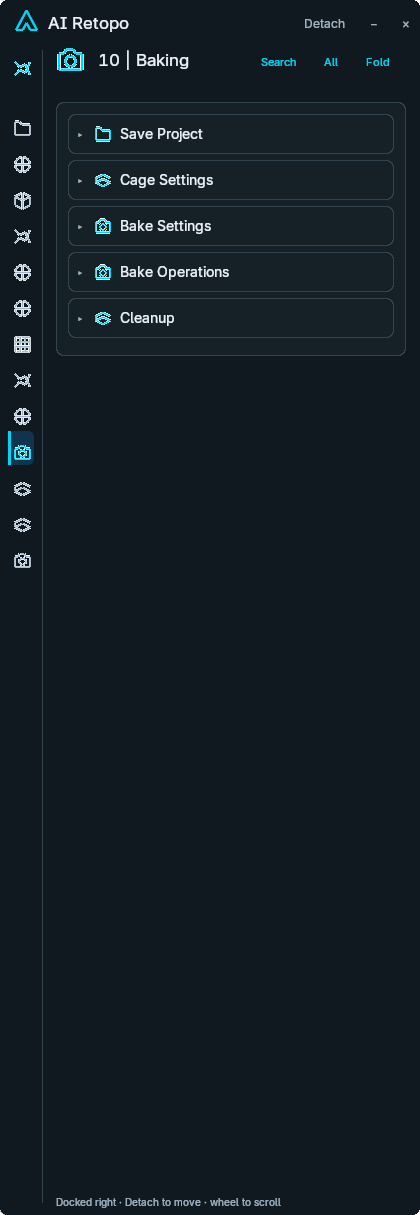
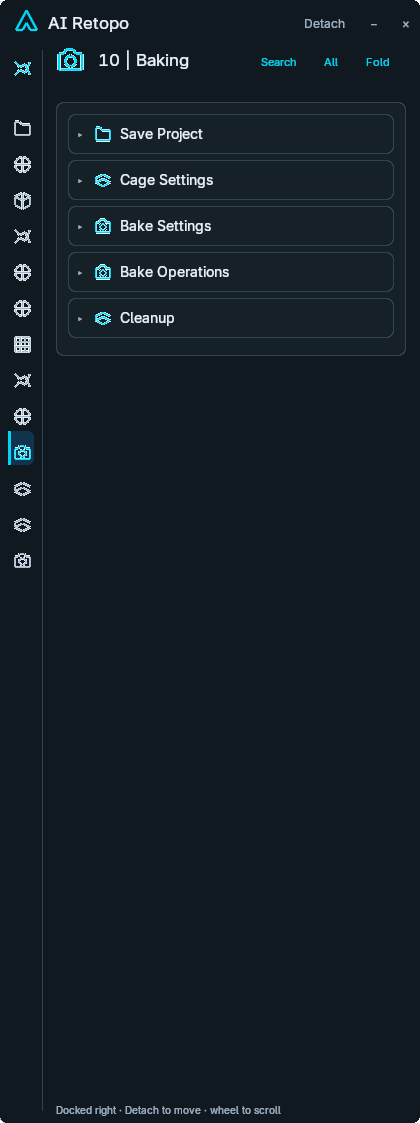
fix: reserve 100 pixels above docked UI Panel

diff --git a/tests/test_custom_ui_docking.py b/tests/test_custom_ui_docking.py
@@ -75,18 +75,18 @@ def tick():
                 assert prefs.ui_mode=='UI_PANEL' and prefs.ui_panel_docked
                 x,top,width,height=s.geometry(r)
                 assert abs(x+width-(r.width-8))<.01
-                assert height==r.height-16
+                assert top==r.height-100 and height==r.height-108
                 assert not any(h[1][0] in {'move','resize'} for h in s.hits)
                 for rw,rh in ((400,300),(1400,900)):
                     x,top,width,height=s.geometry(SimpleNamespace(width=rw,height=rh))
-                    assert abs(x+width-(rw-8))<.01 and top==rh-8
+                    assert abs(x+width-(rw-8))<.01 and top==rh-100
                 bpy.ops.screen.screen_full_area(use_hide_panels=False)
                 state['step']=4
                 return .6
             if step==4:
                 assert prefs.ui_panel_docked and s is state['session']
                 x,top,width,height=s.geometry(r)
-                assert abs(x+width-(r.width-8))<.01
+                assert abs(x+width-(r.width-8))<.01 and top==r.height-100
                 bpy.ops.screen.screen_full_area(use_hide_panels=False)
                 state['step']=5
                 return .6

diff --git a/custom_ui/lifecycle.py b/custom_ui/lifecycle.py
@@ -84,8 +84,11 @@ class Session:
         s = self.scale
         if self.prefs.ui_mode == 'UI_PANEL' and self.prefs.ui_panel_docked:
             width = min(self.prefs.ui_panel_width*s, max(1, region.width-16))
-            h = min(44*s if self.collapsed else region.height-16, max(1, region.height-16))
-            return max(8, region.width-width-8), region.height-8, width, h
+            # Reserve physical viewport pixels for its top toolbars/overlays.
+            top = max(1, min(region.height-1, max(9, region.height-100)))
+            available = max(1, top-8)
+            h = min(44*s if self.collapsed else available, available)
+            return max(8, region.width-width-8), top, width, h
         width = min(self.width*s, max(1, region.width-16))
         h = min((44 if self.collapsed else self.height)*s, max(1, region.height-16))
         x = min(max(8, self.x*s), max(8, region.width-width-8))

diff --git a/docs/custom_ui/validation_report.md b/docs/custom_ui/validation_report.md
@@ -164,3 +164,11 @@ are suppressed. Stale hover descriptions are not drawn after layout changes.
 CUSTOM_UI_BLENDER_TESTS_PASSED includes above-control, viewport-edge and cursor
 exclusion checks at scales 1, 1.5 and 2. CUSTOM_UI_TOOLTIP_TESTS_PASSED verifies
 actual GPU tooltip placement after simulated hover in docked and floating modes.
+
+## Docked top clearance (2026-10-09)
+
+Docked UI Panel reserves 100 physical pixels at the top of the WINDOW region
+for viewport toolbars and overlays. Its available height is reduced accordingly;
+floating geometry is unchanged. Very small regions clamp safely. The real GUI
+docking regression passed, including 100 px geometry checks before and after
+maximize/restore, Detach/Dock clicks and free dragging.
